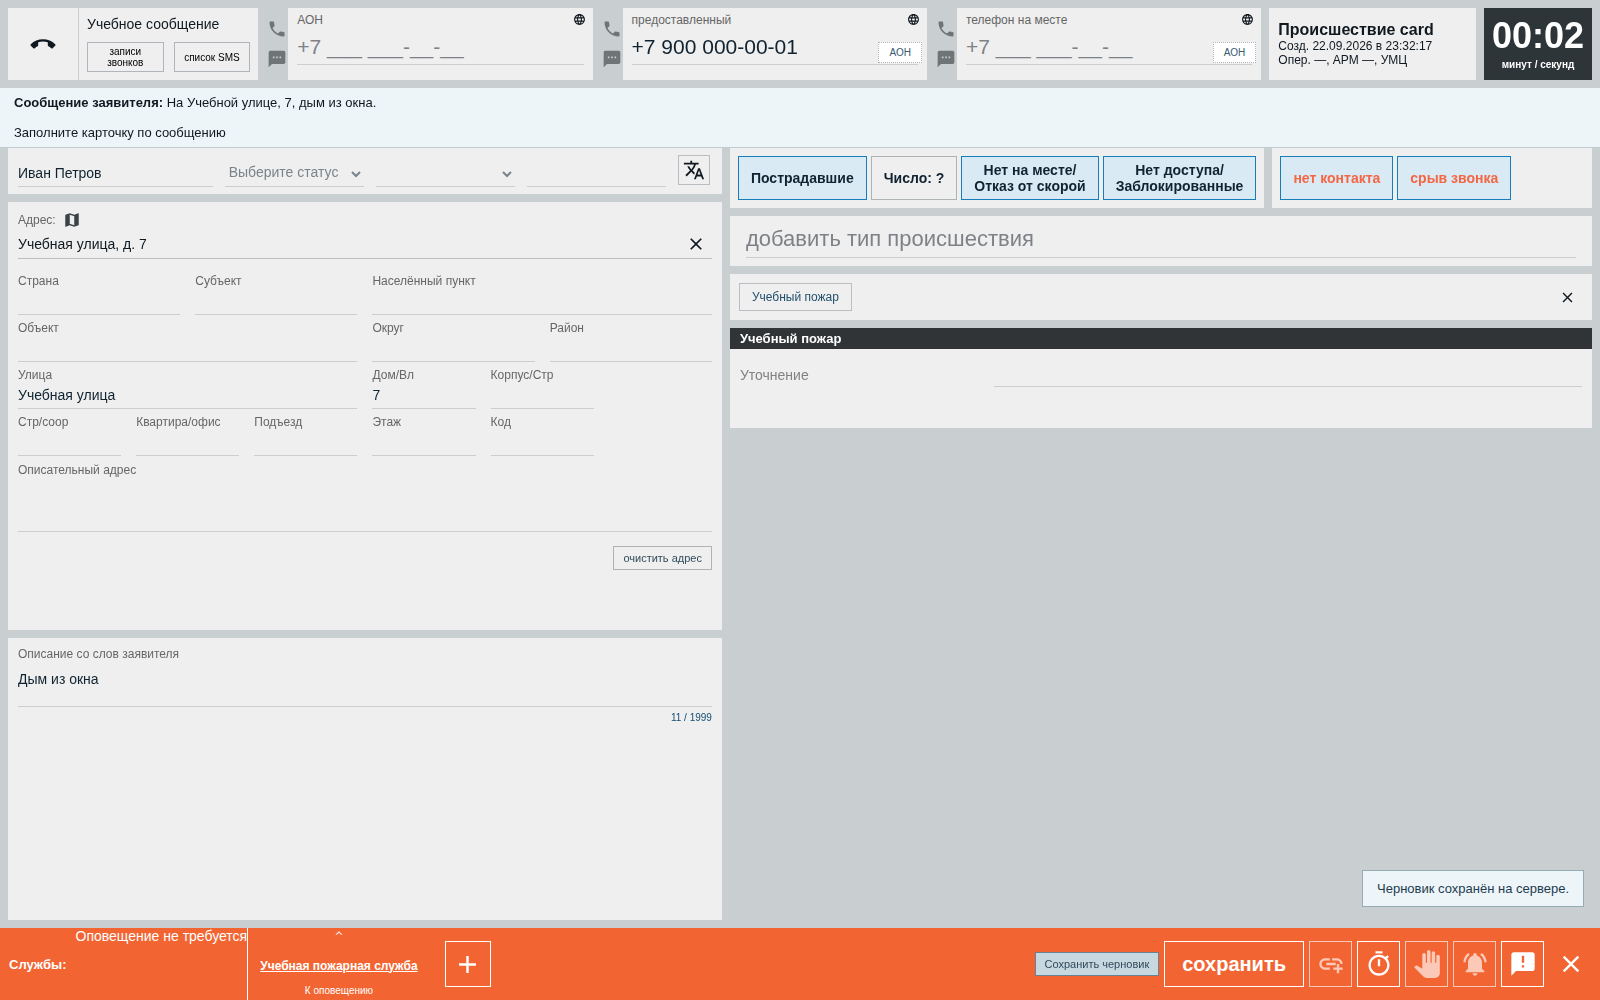
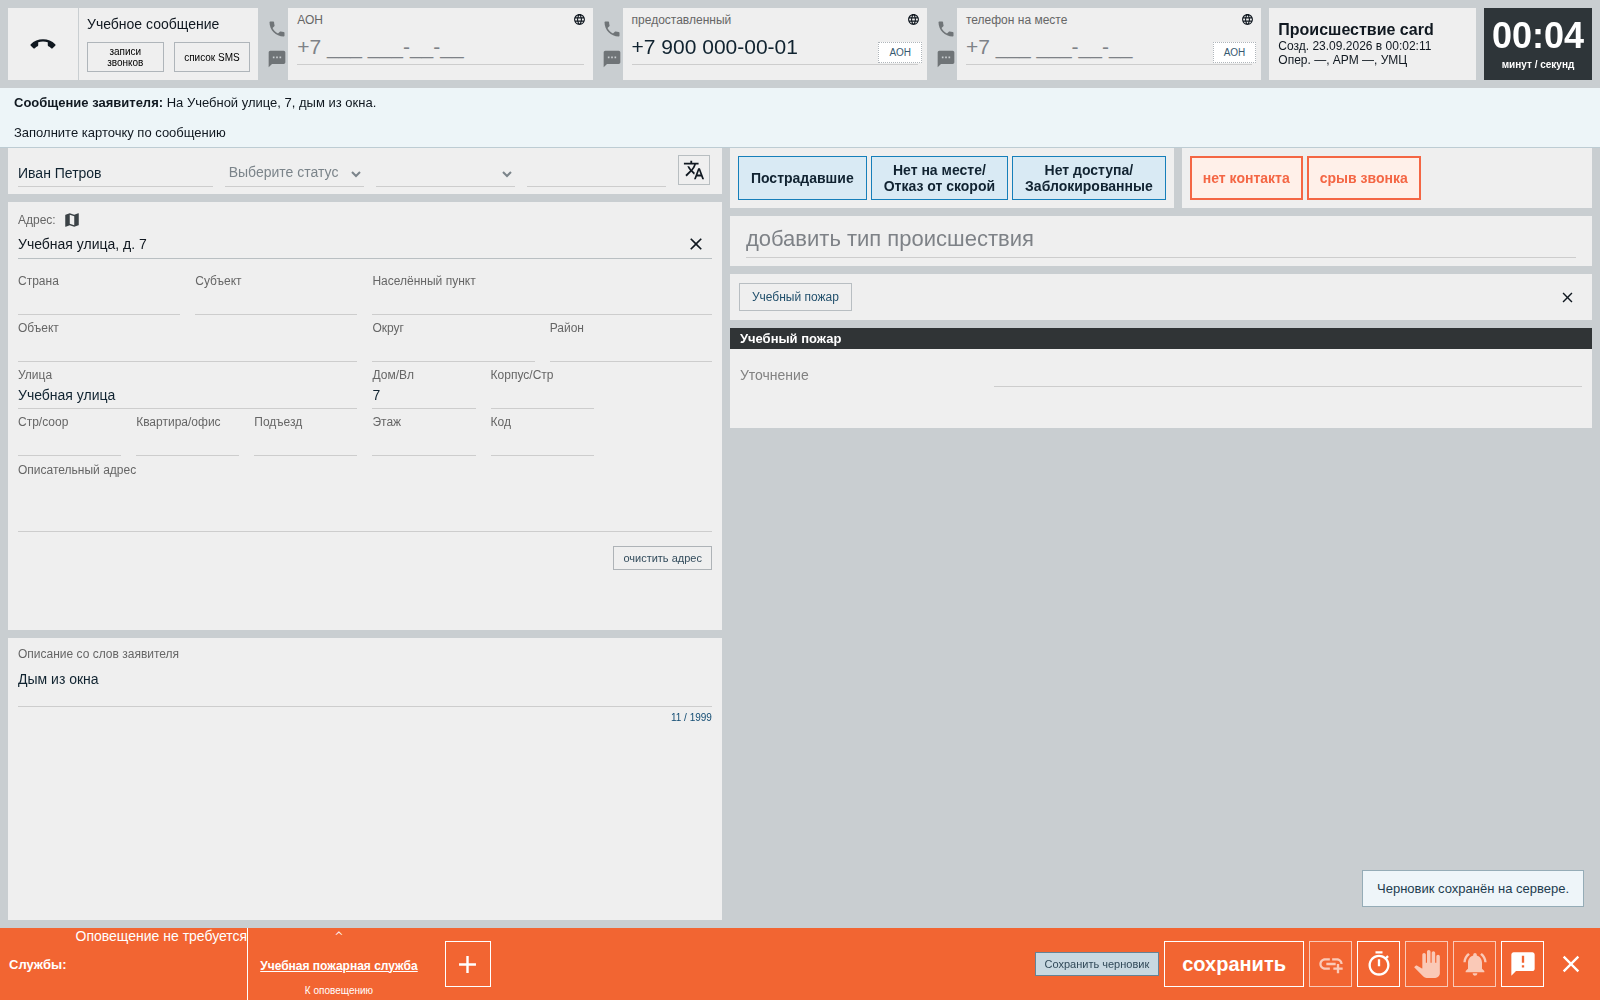
fix: match incident flag controls to the reference interface

Changed region(s): [[0.5312, 0.155, 0.9375, 0.217], [0.9688, 0.031, 1.0, 0.062]]

diff --git a/112-frontend/src/widgets/incident-card/ui/IncidentCardDialog.tsx b/112-frontend/src/widgets/incident-card/ui/IncidentCardDialog.tsx
@@ -6,12 +6,7 @@ import {
 } from "@/entities/incident-card";
 import { useIncidentEditor } from "@/features/incident-editing";
 import { LocationPicker } from "@/features/location-picker";
-import {
-  ArmField,
-  ArmIconButton,
-  ArmSelect,
-  ArmTextarea,
-} from "@/shared/ui/arm";
+import { ArmIconButton, ArmSelect, ArmTextarea } from "@/shared/ui/arm";
 import { FieldFeedbackContext } from "@/shared/ui/arm/FieldFeedback";
 import { Dialog, DialogContent, DialogTitle } from "@mui/material";
 import { useId, useState } from "react";
@@ -71,9 +66,7 @@ function IncidentCardForm(props: IncidentCardFormProps) {
   const [servicesOpen, setServicesOpen] = useState(false);
   const [commentOpen, setCommentOpen] = useState(false);
   const [activeService, setActiveService] = useState<string>();
-  const [modal, setModal] = useState<
-    "victims" | "map" | "calls" | "sms" | "timing"
-  >();
+  const [modal, setModal] = useState<"map" | "calls" | "sms" | "timing">();
   const viewing = preview || isSubmitted || !!props.readOnly;
   const summaryLayout = viewing && props.readOnlyLayout !== "form";
   const disabled = viewing || !isCallAccepted || editor.pending;
@@ -119,10 +112,7 @@ function IncidentCardForm(props: IncidentCardFormProps) {
           viewing={summaryLayout}
           onMap={() => setModal("map")}
         />
-        <CardClassification
-          viewing={summaryLayout}
-          onVictims={() => setModal("victims")}
-        />
+        <CardClassification viewing={summaryLayout} />
       </div>
       {editor.saved && (
         <p className="arm-card-notice" role="status">
@@ -356,15 +346,13 @@ function IncidentCardForm(props: IncidentCardFormProps) {
         className="arm-aux-dialog"
       >
         <DialogTitle id={`${titleId}-aux`}>
-          {modal === "victims"
-            ? "Пострадавшие"
-            : modal === "map"
-              ? "Карта происшествия"
-              : modal === "calls"
-                ? "Записи звонков"
-                : modal === "timing"
-                  ? "Время заполнения карточки"
-                  : "Список SMS"}
+          {modal === "map"
+            ? "Карта происшествия"
+            : modal === "calls"
+              ? "Записи звонков"
+              : modal === "timing"
+                ? "Время заполнения карточки"
+                : "Список SMS"}
           <ArmIconButton
             icon="close"
             label="Закрыть окно"
@@ -372,24 +360,6 @@ function IncidentCardForm(props: IncidentCardFormProps) {
           />
         </DialogTitle>
         <DialogContent>
-          {modal === "victims" && (
-            <ArmField
-              label="Пострадавших"
-              type="number"
-              min={0}
-              step={1}
-              disabled={locked("classification")}
-              value={fields.victimsCount ?? ""}
-              onChange={(e) =>
-                editor.setVictims(
-                  e.target.value === "" || Number(e.target.value) > 0,
-                  e.target.value === ""
-                    ? null
-                    : Math.max(0, Number(e.target.value)),
-                )
-              }
-            />
-          )}
           {modal === "map" &&
             (renderMap?.(formatAddress(fields.address)) ?? (
               <LocationPicker

diff --git a/112-frontend/src/widgets/incident-card/ui/CardClassification.tsx b/112-frontend/src/widgets/incident-card/ui/CardClassification.tsx
@@ -13,7 +13,7 @@ import { ArmField, ArmIconButton } from "@/shared/ui/arm";
 import { FeatureInput } from "@/shared/ui/FeatureInput";
 import { useState } from "react";
 import type { Props } from "../types/CardClassification";
-export function CardClassification({ viewing, onVictims }: Props) {
+export function CardClassification({ viewing }: Props) {
   const { editor } = useIncidentCardContext();
   const disabled = useCardSkillDisabled("classification");
   const { fields, setDetail } = editor;
@@ -56,7 +56,7 @@ export function CardClassification({ viewing, onVictims }: Props) {
                     ? "неизвестно"
                     : key === "hasVictims"
                       ? hasVictims
-                        ? String(fields.victimsCount || "да, число неизвестно")
+                        ? "да"
                         : "нет"
                       : fields.details?.[key]
                         ? "да"
@@ -81,17 +81,7 @@ export function CardClassification({ viewing, onVictims }: Props) {
               className={hasVictims ? "is-selected" : ""}
             >
               Пострадавшие
-              {fields.victimsCount ? `: ${fields.victimsCount}` : ""}
             </button>
-            {hasVictims && (
-              <button
-                disabled={disabled}
-                onClick={onVictims}
-                aria-label="Указать количество пострадавших"
-              >
-                Число: {fields.victimsCount ?? "?"}
-              </button>
-            )}
             <button
               disabled={disabled}
               aria-pressed={fields.details?.refusedAmbulance ?? false}

diff --git a/112-frontend/e2e/card-flags.spec.ts b/112-frontend/e2e/card-flags.spec.ts
@@ -26,7 +26,7 @@ test("ARM flags toggle, persist and remain visible on small screens", async ({
   await expect(victims).toHaveAttribute("aria-pressed", "true");
   await expect(
     bar.getByRole("button", { name: "Указать количество пострадавших" }),
-  ).toContainText("?");
+  ).toHaveCount(0);
   await victims.click();
   await expect(victims).toHaveAttribute("aria-pressed", "false");
   for (const name of [
@@ -39,6 +39,15 @@ test("ARM flags toggle, persist and remain visible on small screens", async ({
     const button = bar.getByRole("button", { name, exact: true });
     await button.click();
     await expect(button).toHaveAttribute("aria-pressed", "true");
+  }
+  await expect(bar.getByRole("button")).toHaveCount(5);
+  for (const name of ["нет контакта", "срыв звонка"]) {
+    const button = bar.getByRole("button", { name, exact: true });
+    await expect(button).toHaveCSS("border-color", "rgb(244, 102, 68)");
+    await expect(button).toHaveCSS("background-color", "rgb(255, 240, 233)");
+    await button.click();
+    await expect(button).toHaveAttribute("aria-pressed", "false");
+    await button.click();
   }
   // noContact with a known incident is intentionally not a valid final answer;
   // drafts preserve mistakes, so learners can correct them before submission.

diff --git a/112-frontend/src/features/incident-editing/model/useIncidentEditor.ts b/112-frontend/src/features/incident-editing/model/useIncidentEditor.ts
@@ -108,10 +108,10 @@ export function useIncidentEditor({
           : remote.notificationRequired,
     },
     useRecommendedServices: () => setField("manualServices", null),
-    setVictims: (present: boolean, count: number | null = null) =>
+    setVictims: (present: boolean) =>
       setFields((current) => ({
         ...current,
-        victimsCount: present ? count : null,
+        victimsCount: null,
         details: { ...current.details, hasVictims: present },
       })),
     pending: command.isPending,

diff --git a/112-frontend/src/widgets/incident-card/styles/incident-card.scss b/112-frontend/src/widgets/incident-card/styles/incident-card.scss
@@ -418,6 +418,17 @@
   text-transform: lowercase;
 }
 
+.arm-victim-bar__special button:hover:not(:disabled) {
+  border-color: #f46644;
+  background: #fff0e9;
+}
+
+.arm-victim-bar__special button[aria-pressed="true"] {
+  border-color: #f46644;
+  box-shadow: inset 0 0 0 1px #f46644;
+  background: #fff0e9;
+}
+
 .arm-victim-bar button:disabled {
   cursor: default;
   opacity: 0.65;

diff --git a/112-frontend/src/widgets/incident-card/types/CardClassification.ts b/112-frontend/src/widgets/incident-card/types/CardClassification.ts
@@ -1,4 +1,3 @@
 export interface Props {
   viewing: boolean;
-  onVictims: () => void;
 }

diff --git a/112-frontend/docs/screenshots/card-flags/README.md b/112-frontend/docs/screenshots/card-flags/README.md
@@ -1,7 +1,8 @@
 # Отметки карточки
 
 - `arm-flags-desktop.png`, `arm-flags-mobile.png` — кликабельные отметки в АРМ,
-  выделение выбранного значения, отдельный ввод количества пострадавших.
+  выделение выбранного значения. «Пострадавшие» — только кнопка, без числа
+  и дополнительной модалки; оранжевые кнопки сохраняют оранжевую рамку при выборе.
 - `arm-silent-call.png` — молчаливый вызов без выдуманного адреса и типа.
 - `teacher-reference-flags.png` — редактирование эталонного решения.
 - `generation-flags.png` — фиксированные и случайные факты до обращения к модели.
